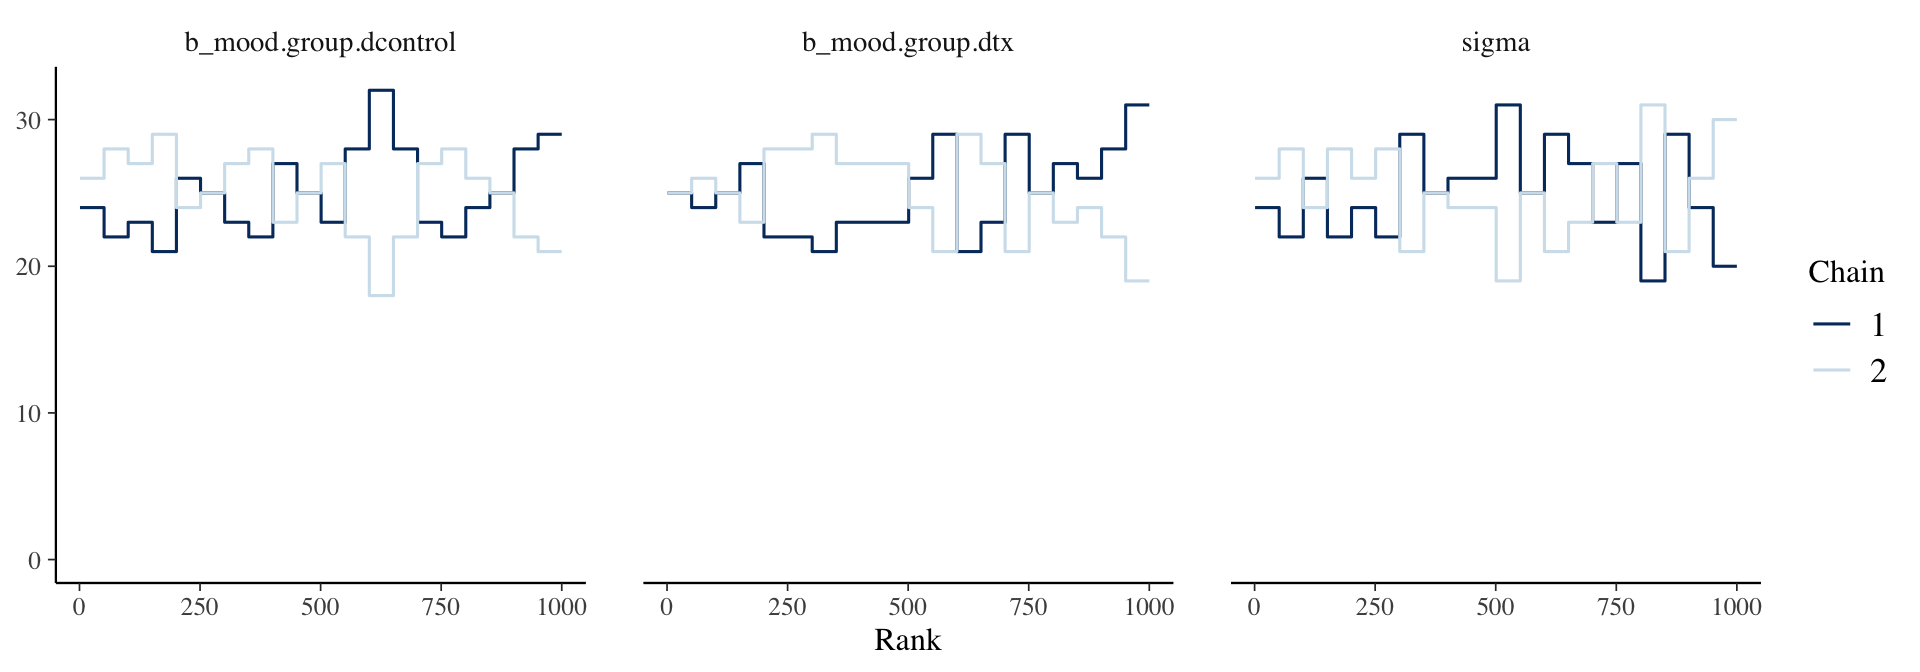
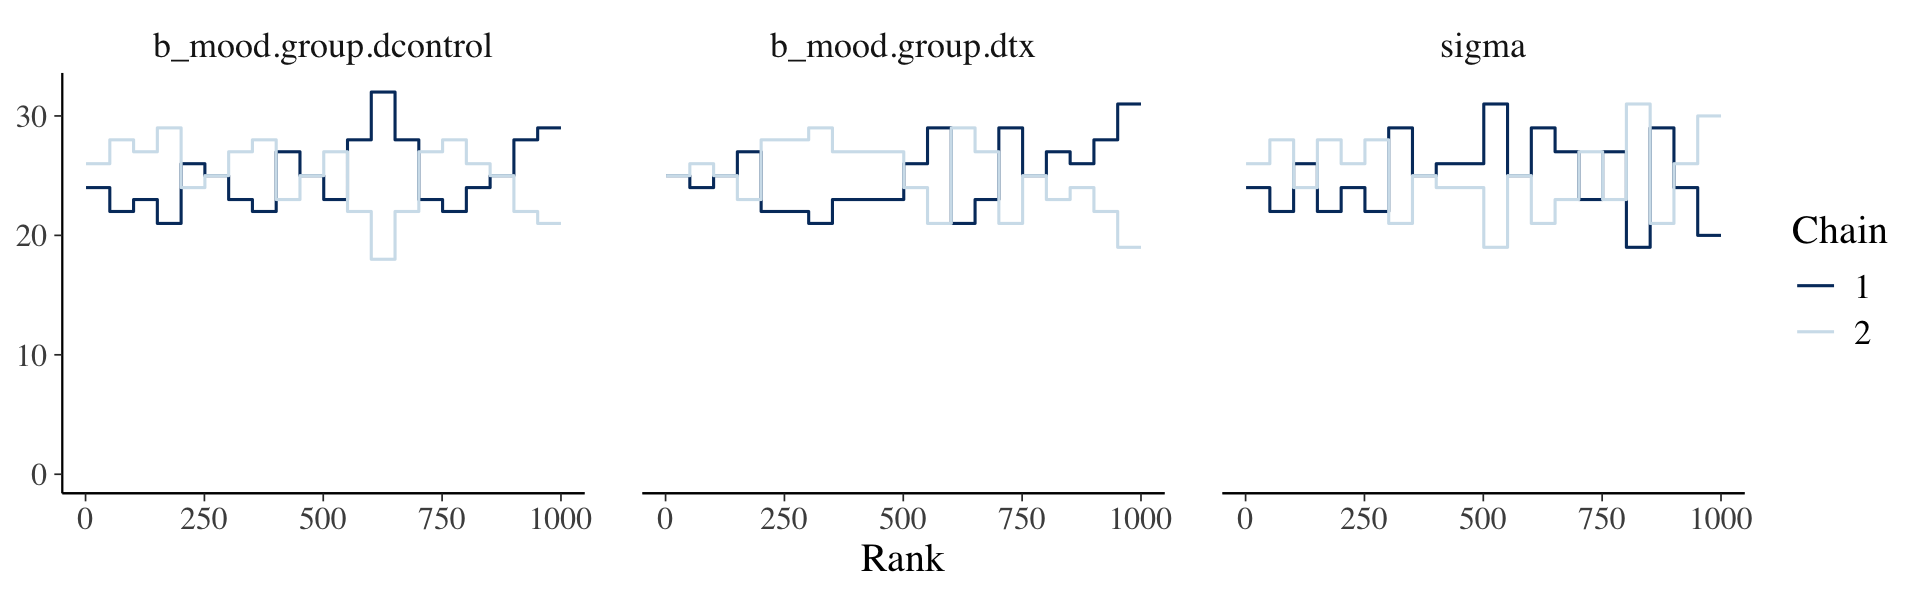
Lecture 5: rank plot no longer squashed by auto-stretch; full width with larger text

diff --git a/_site/mcmc-5.html b/_site/mcmc-5.html
@@ -930,17 +930,24 @@ scale reduction factor on split chains (at convergence, Rhat = 1).</code></pre>
 
 </div>
 <img data-src="mcmc-5_files/figure-revealjs/unnamed-chunk-16-1.png" width="960" class="r-stretch"></section>
-<section id="rank-plots" class="slide level2">
+<section id="rank-plots" class="slide level2 smaller nostretch">
 <h2>Rank plots</h2>
 <p>A more sensitive check than trace plots: pool all draws, rank them, then plot each chain’s ranks as a histogram. If the chains are exploring the same distribution, every chain’s histogram is roughly <strong>flat</strong> (each chain gets its fair share of low, middle, and high values).</p>
 <div class="cell">
 <details class="code-fold">
 <summary>Code</summary>
-<div class="code-copy-outer-scaffold"><div class="sourceCode cell-code" id="cb17"><pre class="sourceCode numberSource r number-lines code-with-copy"><code class="sourceCode r"><span id="cb17-1"><a aria-label="1"></a><span class="fu">mcmc_rank_overlay</span>(h<span class="fl">.3</span>, <span class="at">pars =</span> <span class="fu">c</span>(<span class="st">"b_mood.group.dcontrol"</span>, <span class="st">"b_mood.group.dtx"</span>, <span class="st">"sigma"</span>))</span></code></pre></div><button title="Copy to Clipboard" class="code-copy-button"><i class="bi"></i></button></div>
+<div class="code-copy-outer-scaffold"><div class="sourceCode cell-code" id="cb17"><pre class="sourceCode numberSource r number-lines code-with-copy"><code class="sourceCode r"><span id="cb17-1"><a aria-label="1"></a><span class="fu">mcmc_rank_overlay</span>(h<span class="fl">.3</span>, <span class="at">pars =</span> <span class="fu">c</span>(<span class="st">"b_mood.group.dcontrol"</span>, <span class="st">"b_mood.group.dtx"</span>, <span class="st">"sigma"</span>)) <span class="sc">+</span></span>
+<span id="cb17-2"><a aria-label="2"></a>  <span class="fu">theme</span>(<span class="at">text =</span> <span class="fu">element_text</span>(<span class="at">size =</span> <span class="dv">15</span>))</span></code></pre></div><button title="Copy to Clipboard" class="code-copy-button"><i class="bi"></i></button></div>
 </details>
-
+<div class="cell-output-display">
+<div>
+<figure>
+<p><img data-src="mcmc-5_files/figure-revealjs/unnamed-chunk-17-1.png" style="width:100.0%"></p>
+</figure>
 </div>
-<img data-src="mcmc-5_files/figure-revealjs/unnamed-chunk-17-1.png" width="960" class="r-stretch"><p>A chain whose histogram bulges at one end is stuck in part of the posterior, even if its trace plot looks like a fuzzy caterpillar.</p>
+</div>
+</div>
+<p>A chain whose histogram bulges at one end is stuck in part of the posterior, even if its trace plot looks like a fuzzy caterpillar.</p>
 </section>
 <section id="r-hat" class="slide level2">
 <h2>R-hat</h2>
